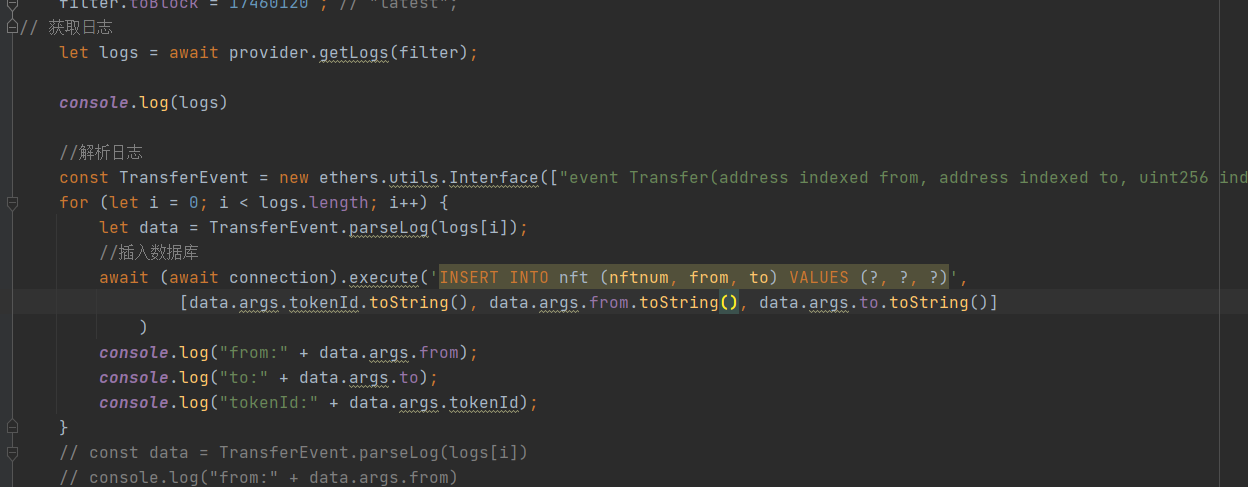
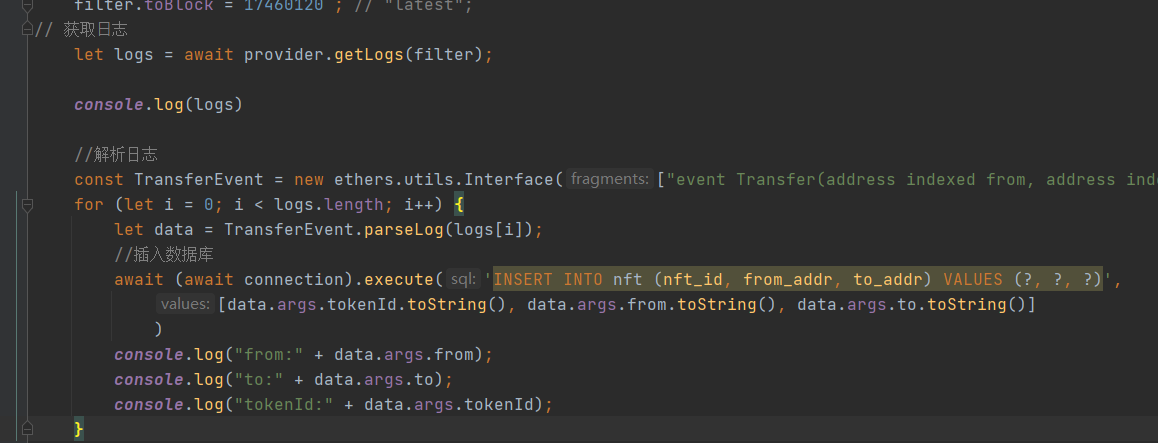
fix

diff --git a/W3_2/w3_2_code/scripts/filter-event.js b/W3_2/w3_2_code/scripts/filter-event.js
@@ -31,8 +31,8 @@ async function main() {
     for (let i = 0; i < logs.length; i++) {
         let data = TransferEvent.parseLog(logs[i]);
         //插入数据库
-        await (await connection).execute('INSERT INTO nft (nftnum, from, to) VALUES (?, ?, ?)',
-                [data.args.tokenId.toString(), data.args.from.toString(), data.args.to.toString()]
+        await (await connection).execute('INSERT INTO nft (nft_id, from_addr, to_addr) VALUES (?, ?, ?)',
+            [data.args.tokenId.toString(), data.args.from.toString(), data.args.to.toString()]
             )
         console.log("from:" + data.args.from);
         console.log("to:" + data.args.to);

diff --git a/W3_2/README.md b/W3_2/README.md
@@ -12,4 +12,5 @@ https://testnet.bscscan.com/tx/0x4626fa723a9983b9fab7973dc6b4c53f673d4577839ac23
 [filter-event.js](./w3_2_code/scripts/filter-event.js)
 
 ![img](../img/W3_2_1.jpg)
+![img](../img/W3_2_2.jpg)
 
